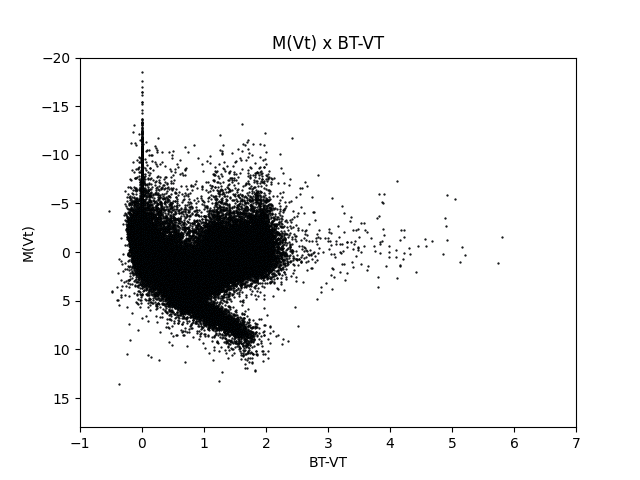
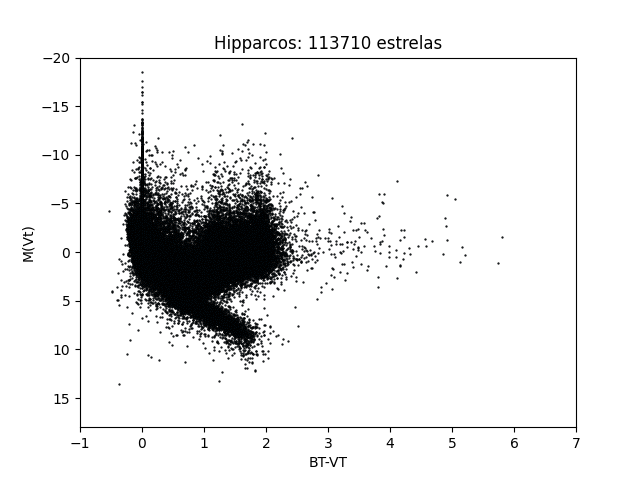
títulos dos diagramas

Changed region(s): [[0.3125, 0.0625, 0.6875, 0.125]]

diff --git a/main.py b/main.py
@@ -1,9 +1,9 @@
 from flask import Flask, render_template
 import mysql.connector
 import math
-import itertools
+#import itertools
 import matplotlib.pyplot
-import numpy as np
+#import numpy as np
 import csv
 
 connection = mysql.connector.connect(host='localhost', port='3306', database='catalogo_gaia', user='helena', password='ic2023')
@@ -142,7 +142,7 @@ def diagramas_gaia():
     matplotlib.pyplot.scatter(indice_de_cor, mg, s=size, marker=".", edgecolors='black', alpha=transparency)
     matplotlib.pyplot.xlim(0, 4.2)
     matplotlib.pyplot.ylim(15, 0.3)
-    matplotlib.pyplot.title("M(G) x índice de cor")
+    matplotlib.pyplot.title("GAIA: {} estrelas dentro de 20pc".format(cont))
     matplotlib.pyplot.ylabel("M(G)")
     matplotlib.pyplot.xlabel("índice de cor")
     matplotlib.pyplot.savefig('static/images/mg_indice_de_cor.png')
@@ -151,7 +151,7 @@ def diagramas_gaia():
     matplotlib.pyplot.scatter(indice_de_cor, mrp, s=size, marker=".", edgecolors='black', alpha=transparency)
     matplotlib.pyplot.xlim(0, 4.2)
     matplotlib.pyplot.ylim(15, 0.3)
-    matplotlib.pyplot.title("M(Rp) x índice de cor")
+    matplotlib.pyplot.title("GAIA: {} estrelas dentro de 20pc".format(cont))
     matplotlib.pyplot.ylabel("M(Rp)")
     matplotlib.pyplot.xlabel("índice de cor")
     matplotlib.pyplot.savefig('static/images/mrp_indice_de_cor.png')
@@ -180,6 +180,7 @@ def diagramas_hipparcos():
     numero_ordinal_do_registro_diagrama = []
 
     cont = 0
+    qtde_de_registros_usados = 0
     for star in value:
         Vmag.append(star[0])
         Plx.append(star[1])
@@ -189,6 +190,7 @@ def diagramas_hipparcos():
         numero_ordinal_do_registro.append(star[5])
 
         if(Plx[cont] > 0):
+            qtde_de_registros_usados += 1
             MVt.append(VTmag[cont] + 5 + 5*math.log(Plx[cont]/1000, 10))
             MV.append(Vmag[cont] + 5 + 5 * math.log(Plx[cont]/1000, 10))
             BT_VT.append(BTmag[cont] - VTmag[cont])
@@ -213,7 +215,7 @@ def diagramas_hipparcos():
     matplotlib.pyplot.scatter(B_V_diagrama, MV, s=size, marker=".", edgecolors='black', alpha=transparency)
     matplotlib.pyplot.xlim(-1, 6)
     matplotlib.pyplot.ylim(18, -16)
-    matplotlib.pyplot.title("M(V) x B-V")
+    matplotlib.pyplot.title("Hipparcos: {} estrelas".format(qtde_de_registros_usados))
     matplotlib.pyplot.ylabel("M(V)")
     matplotlib.pyplot.xlabel("B-V")
     matplotlib.pyplot.savefig('static/images/MV_B_V.png')
@@ -222,7 +224,7 @@ def diagramas_hipparcos():
     matplotlib.pyplot.scatter(BT_VT, MVt, s=size, marker=".", edgecolors='black', alpha=transparency)
     matplotlib.pyplot.xlim(-1, 7)
     matplotlib.pyplot.ylim(18, -20)
-    matplotlib.pyplot.title("M(Vt) x BT-VT")
+    matplotlib.pyplot.title("Hipparcos: {} estrelas".format(qtde_de_registros_usados))
     matplotlib.pyplot.ylabel("M(Vt)")
     matplotlib.pyplot.xlabel("BT-VT")
     matplotlib.pyplot.savefig('static/images/MVt_BT_VT.png')
